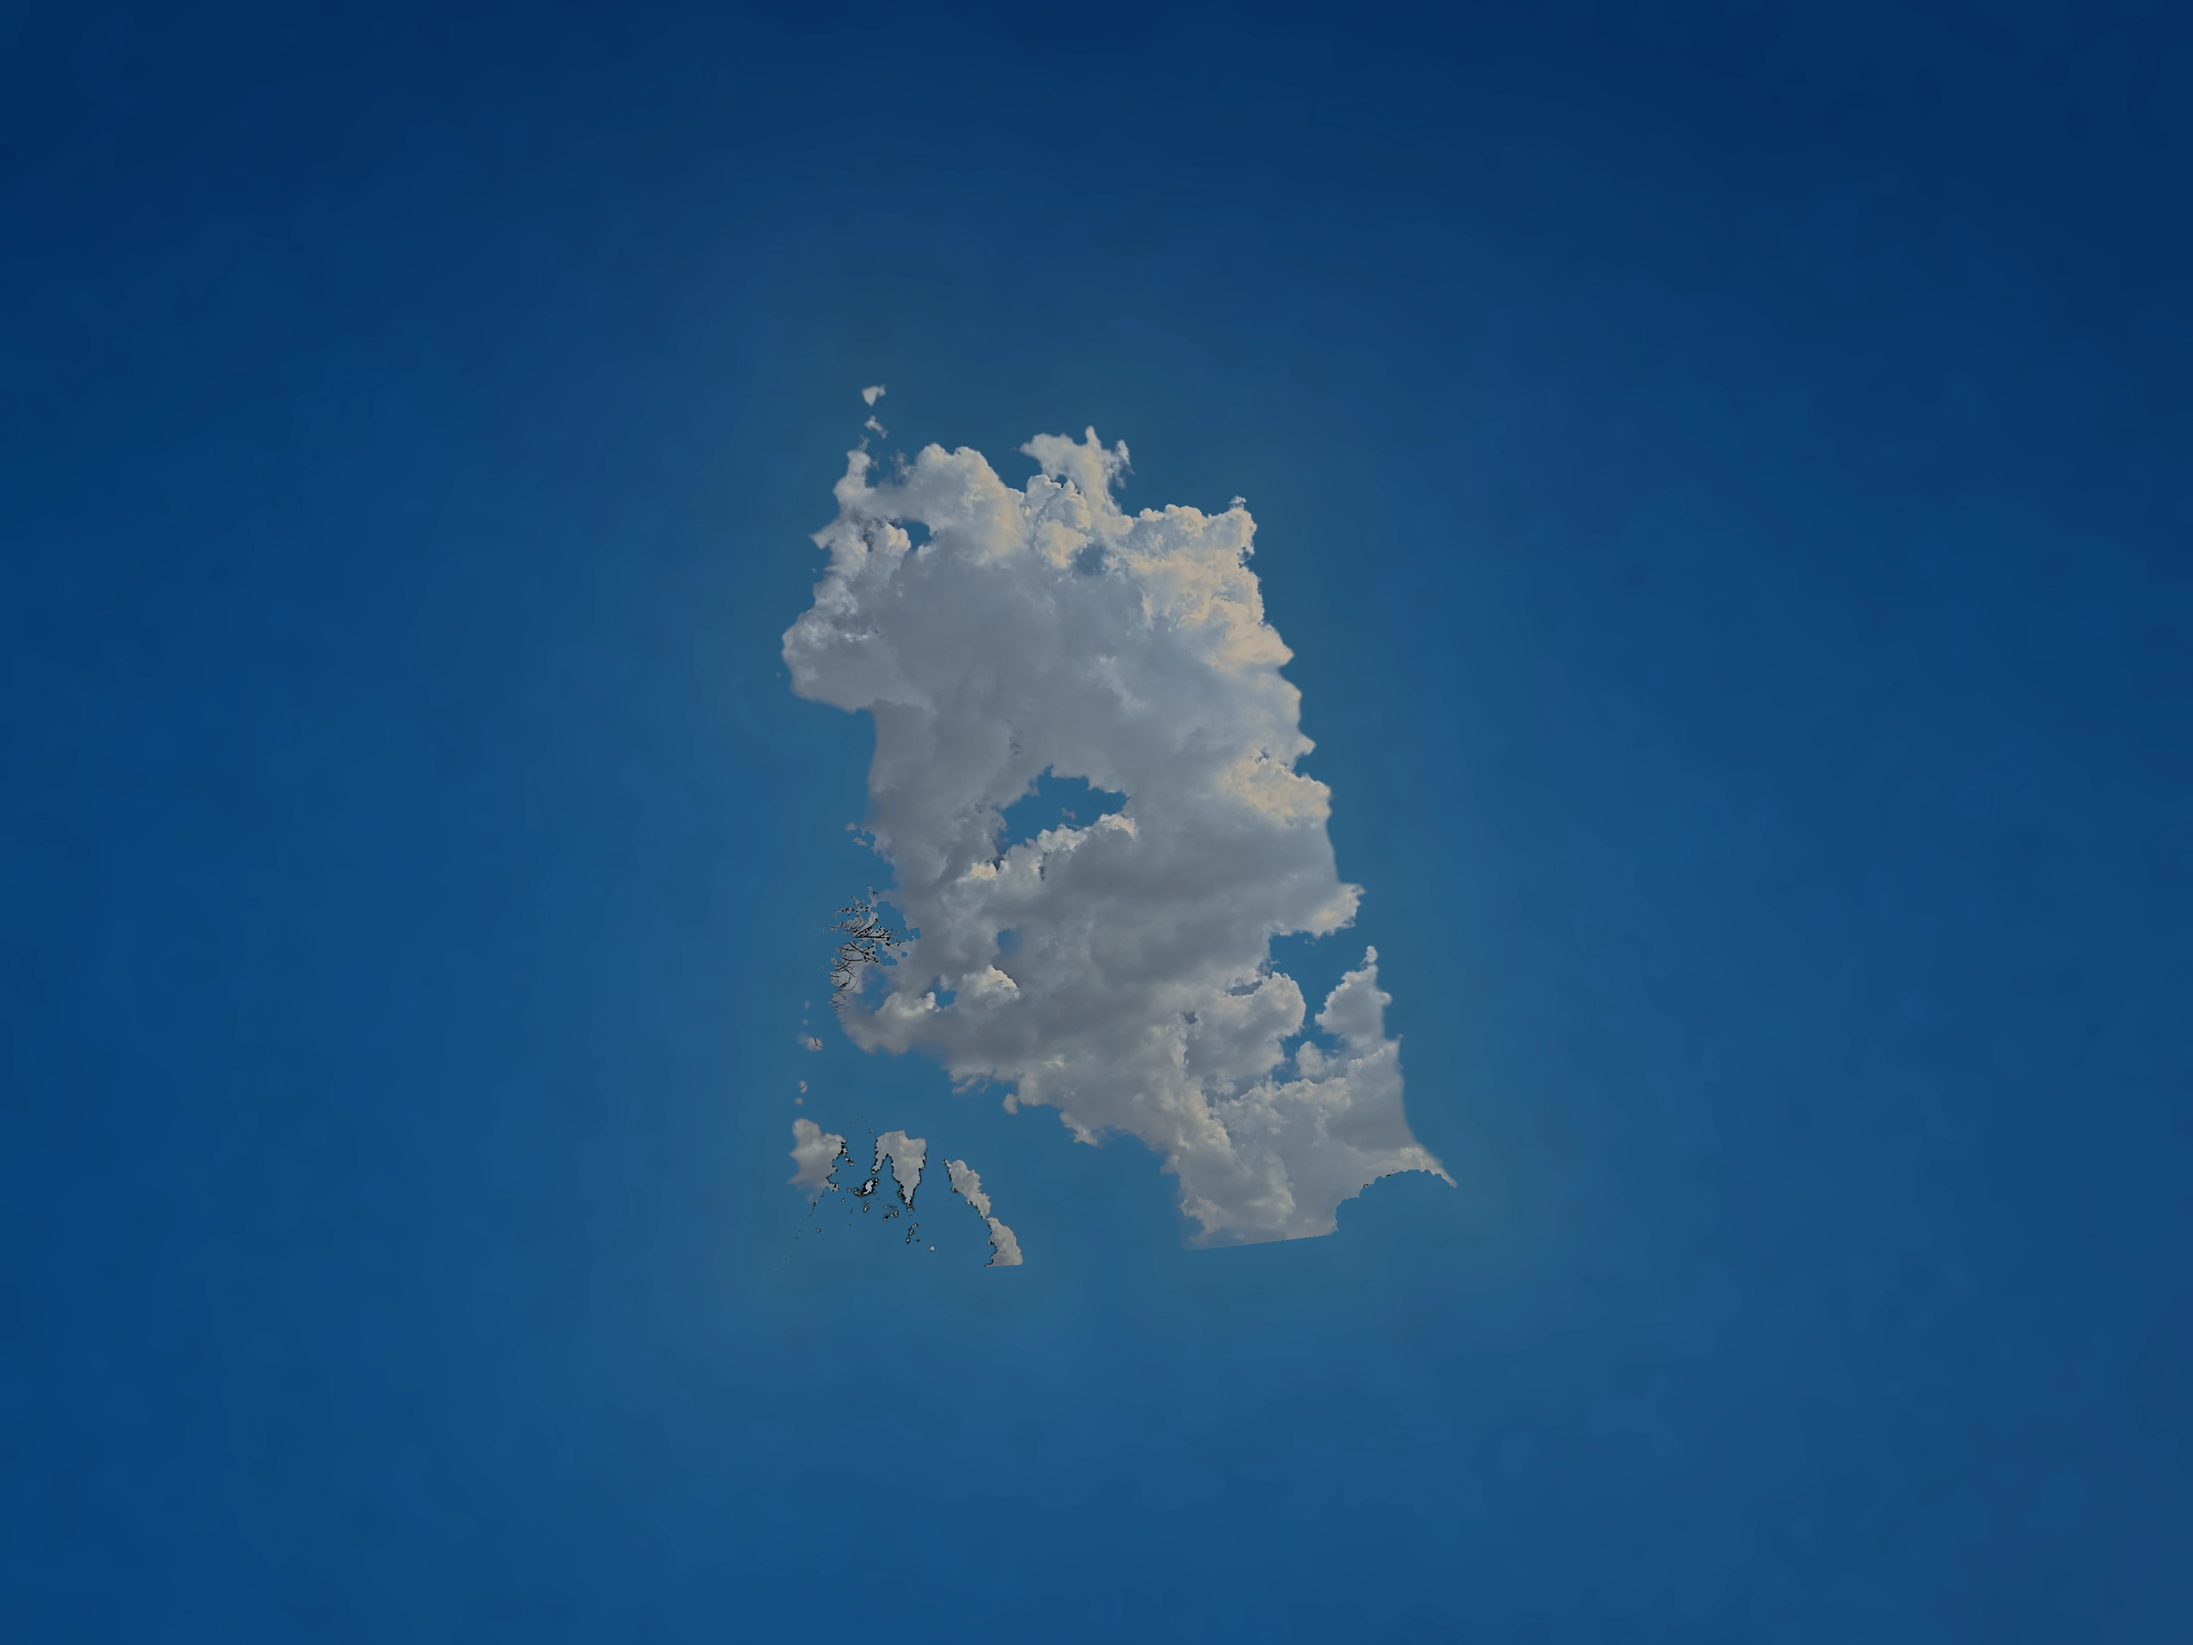
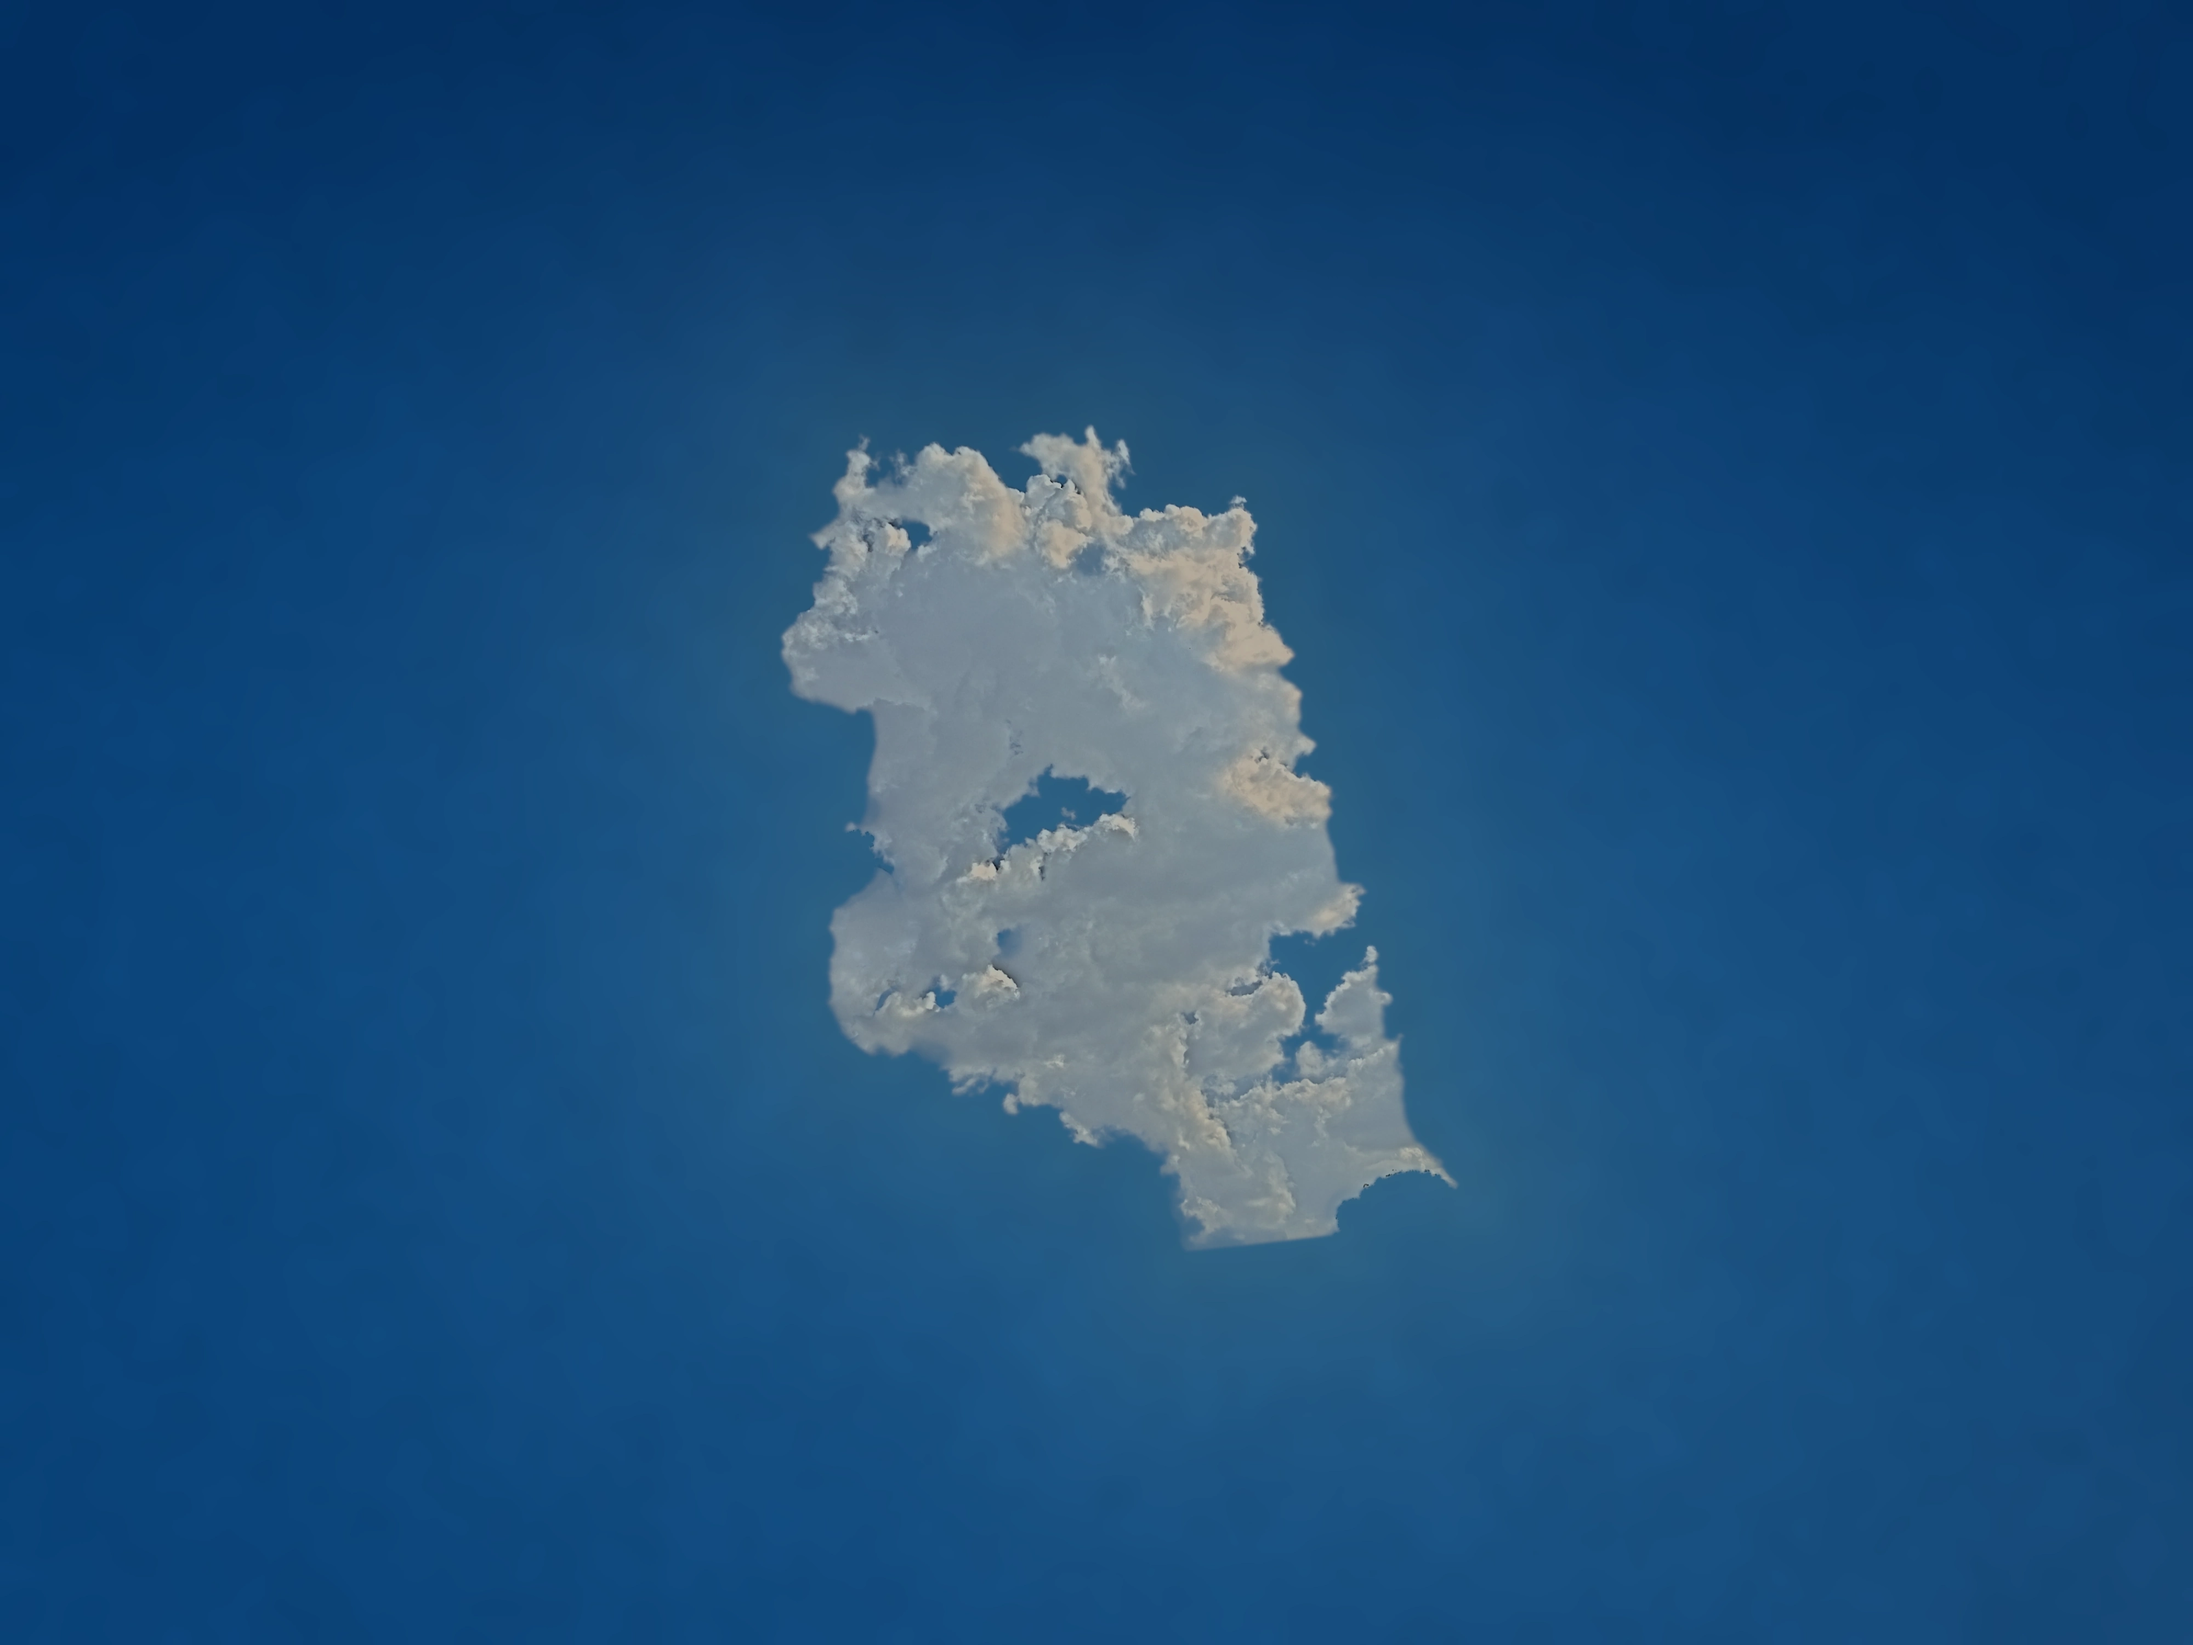
Lab: climb depth-clock round 1
Claude-Session: https://claude.ai/code/session_01RqENhngNCzDFmJWDZueXGV

Changed region(s): [[0.375, 0.465, 0.5, 0.651], [0.3438, 0.682, 0.4688, 0.775], [0.4688, 0.527, 0.5312, 0.558]]

diff --git a/src/app/lab/depth-clock/bake_clouds.py b/src/app/lab/depth-clock/bake_clouds.py
@@ -19,6 +19,10 @@
 #      clear sky, the capture's own trees and ground are refused by colour and
 #      by elevation, and the one connected mass under PX, PY is taken (the
 #      rest of the capture's sky, its altocumulus and small cumulus, is not);
+#      of what the gates leave, only the largest connected body survives (no
+#      wisp or scrap floats free of it), feathered, and the patch of its left
+#      flank crossed by the capture's own branches is closed and filled from
+#      the cloud around it;
 #   3. the clear sky around it is drawn new, from the conifers' own cobalt: a
 #      pale, less saturated band of scattered light in the air beside the
 #      cloud, deepening to a saturated cobalt away from it and toward the top
@@ -28,11 +32,13 @@
 #      the air's unevenness is drawn (AIR);
 #   4. the cloud is set to its light (its brightest sunlit crown at TOP, so on
 #      film it glows and never clips), its capture's grey cast taken off, and
-#      then lit as cloud is: its sunlit crown and flanks warm from the low sun,
-#      its bellies a little down (DARK) in skylight blue (SHADE of a paled
-#      cobalt, mixed in as light), never a grey smear; then its whole body
-#      under the crown is lifted LIFT stops, so the tower glows as one
-#      luminous mass well over the blue, not a grey cut-out with white tops;
+#      then lit as cloud is: its sunlit crown warm from the low sun and its
+#      whole body WARM of that warmth, its bellies in skylight blue (SHADE of
+#      a paled cobalt, mixed in as light), barely darkened (DARK), never a
+#      grey smear; then its whole body under the crown is lifted up to LIFT
+#      stops along a monotone curve of its broad light, so the tower glows as
+#      one luminous mass well over the blue, not a grey cut-out with white
+#      tops, and no lifted billow passes the crown above it;
 #   5. its billows crisped in light only (SHARP, EDGE), so the cloud at
 #      infinity draws as crisply as the needles in front of it, and a last
 #      soft shoulder holds the odd brightest texel under the file's ceiling.
@@ -162,6 +168,19 @@ g = np.clip((gate - 0.5 + env('BILLOW', 0.9) * bil) * 8.0 + 0.5, 0, 1)
 g = cv2.GaussianBlur(g, (0, 0), 1.5) * np.clip(gate * 4, 0, 1)
 w = np.maximum(w, solid * (1 - ground)) * g
 del Lg, bil
+# One body. The chroma matte and its gates leave islands: wisps the gate cut
+# off the crown (they hung alone above the 1) and the scraps of the lower
+# flank between the capture's own branches (low left of the column). Only
+# the largest connected mass of the matte is kept, down to its faint fringe
+# (KEEP), so the tower is one shape; what remains is feathered (FEATHER px),
+# so its rim reads as cloud thinning into air and not as a cut.
+KEEP, FEATHER = env('KEEP', 0.04), env('FEATHER', 2.5)
+n1, lab1, st1, _ = cv2.connectedComponentsWithStats((w > KEEP).astype(np.uint8), 8)
+one = (lab1 == 1 + st1[1:, cv2.CC_STAT_AREA].argmax()).astype(np.uint8)
+print('matte: %d islands dropped (%d px), one body of %d px' % (n1 - 2, st1[1:, 4].sum() - one.sum(), one.sum()))
+one = cv2.dilate(one, cv2.getStructuringElement(cv2.MORPH_ELLIPSE, (5, 5)))
+w = cv2.GaussianBlur(w * one, (0, 0), FEATHER)
+del lab1, one
 print('hero cloud: %.1f%% of the plate, bbox x %d..%d y %d..%d' % (100 * (w > 0.5).mean(), st[hero, 0], st[hero, 0] + st[hero, 2], st[hero, 1], st[hero, 1] + st[hero, 3]))
 
 # --- 3. the clear sky, drawn new
@@ -218,7 +237,7 @@ print('cloud cast', own.round(3), 'gain %.3f' % gl)
 # alone): the billows keep their own sunlit tops and shaded folds, and
 # DETAIL widens them a little, so the lift never flattens the form.
 Lc = np.maximum(C @ LUMA, 1e-6)
-GAM, DETAIL = env('GAM', 0.72), env('DETAIL', 1.4)
+GAM, DETAIL = env('GAM', 0.72), env('DETAIL', 1.6)
 lg = np.log(Lc)
 wb = cv2.GaussianBlur(w, (0, 0), env('BROAD', 30.0))
 broad = cv2.GaussianBlur(lg * w, (0, 0), env('BROAD', 30.0)) / np.maximum(wb, 1e-4)
@@ -228,27 +247,84 @@ lb2 = np.where(broad < lt, lt + GAM * (broad - lt), broad)
 C *= np.exp(lb2 + DETAIL * (lg - broad) - lg)[..., None]
 del Lc, lg, wb, broad, lb2
 # how far round toward the sun each billow faces, from its broad light
-Lbro = cv2.GaussianBlur(C @ LUMA, (0, 0), 4.0)
+Lbro = cv2.GaussianBlur(C @ LUMA, (0, 0), env('LITBLUR', 14.0))
 lo, hi = np.percentile(Lbro[cl], 3), np.percentile(Lbro[cl], 99.5)
 lit = np.clip((Lbro - lo) / max(hi - lo, 1e-4), 0, 1)
 lit = lit * lit * (3 - 2 * lit)
 lit = lit ** env('LITG', 1.4)
-SHADE, SKYL = env('SHADE', 0.25), env('SKYLIGHT', 0.5)
+SHADE, SKYL = env('SHADE', 0.35), env('SKYLIGHT', 0.35)
 SUN = np.array([1.0, 0.955, 0.875], np.float32)  # low, warm
 sk = blue ** SKYL
 sk /= sk @ LUMA
-sh = (SHADE * (1 - lit))[..., None]
-tint = ((1 - sh) + sh * sk) * (1 + lit[..., None] * (SUN - 1))
+# The bellies are lit by the blue sky, so their shade is skylight blue, never
+# a neutral grey: SHADE of it in the deepest folds, less as a billow turns
+# toward the sun. The sun's warmth is not the crown's alone: the low sun
+# reaches round the whole tower, so its body takes WARM of the crown's warmth
+# under the blue of its shade, and the crown all of it.
+sh = (SHADE * (1 - lit) ** 1.2)[..., None]
+warm = (env('WARM', 0.5) + (1 - env('WARM', 0.5)) * lit)[..., None]
+tint = ((1 - sh) + sh * sk) * (1 + warm * (SUN - 1))
 tint /= (tint @ LUMA)[..., None]
-DARK = env('DARK', 0.15)
+DARK = env('DARK', 0.03)
 tint *= (1 - DARK * (1 - lit))[..., None]
 C = C * tint
-# Above the trees the tower glows as one mass: everything under its sunlit
-# crown is lifted LIFT stops, wholly in its shaded body, tapering to nothing
+# Above the trees the tower glows as one mass: its body under the sunlit
+# crown is lifted, up to LIFT stops in its deepest shade, tapering to nothing
 # on the crown (which already stands at TOP), so its bellies come up into a
 # luminous skylight blue well over the cobalt around it instead of a dim grey
 # a little over it, and the popcorn tops no longer stand alone in white.
-C *= np.exp2(env('LIFT', 0.8) * (1 - lit))[..., None]
+# The lift follows the cloud's broad light (over LIFTBLUR px) in stops, so it
+# is a monotone curve: a lifted billow never passes the crown above it (that
+# turned the crown's edges into flat, posterised patches), and each billow's
+# own shading rides on it untouched.
+lb = np.log2(np.maximum(cv2.GaussianBlur(C @ LUMA, (0, 0), env('LIFTBLUR', 10.0)), 1e-6))
+llo, lhi = np.percentile(lb[cl], 3), np.percentile(lb[cl], 99.5)
+LIFT = min(env('LIFT', 1.3), 0.7 * (lhi - llo))
+C *= np.exp2(LIFT * np.clip((lhi - lb) / max(lhi - llo, 1e-3), 0, 1))[..., None]
+print('body lifted %.2f stops (its broad light spans %.2f)' % (LIFT, lhi - llo))
+del lb
+# The capture's own branches cross the tower's lower left flank as dark
+# twigs with blue between them. They are found as thin dark lines in the
+# cloud's light (a black-hat over TWIGR px), and their one dense cluster is
+# taken as the patch to mend: its matte is closed over (TWIGC px) and its
+# twigs and gaps are filled from the cloud around them, the broad light by
+# normalised blurs out from the clean body, the billows' fine texture from
+# the nearest clean patch of the same body, so the flank reads as cloud.
+lc = np.log(np.maximum(C @ LUMA, 1e-4))
+ell = lambda r: cv2.getStructuringElement(cv2.MORPH_ELLIPSE, (2 * r + 1, 2 * r + 1))  # noqa: E731
+twig = (cv2.morphologyEx(lc, cv2.MORPH_BLACKHAT, ell(int(env('TWIGR', 5)))) > env('TWIG', 0.2)) & (w > 0.2)
+dens = cv2.GaussianBlur(twig.astype(np.float32), (0, 0), 20)
+n2, lab2, _, _ = cv2.connectedComponentsWithStats((dens > env('TWIGD', 0.03)).astype(np.uint8), 8)
+if n2 > 1:
+    best = 1 + np.bincount(lab2.ravel(), dens.ravel(), n2)[1:].argmax()
+    zone = cv2.dilate((lab2 == best).astype(np.uint8), ell(24))
+    wfill = cv2.morphologyEx(w, cv2.MORPH_CLOSE, ell(int(env('TWIGC', 40))))
+    hole = zone.astype(bool) & (cv2.dilate(twig.astype(np.uint8), ell(4)).astype(bool) | (w < 0.95)
+                                | (lc < cv2.GaussianBlur(lc, (0, 0), 25) - 0.12))
+    valid = ((w > 0.9) & ~hole).astype(np.float32)
+    Cv = np.minimum(C, 4.0) * valid[..., None]
+    fill = np.zeros_like(C)
+    got = np.zeros((H, W), np.float32)
+    for sig in (3, 8, 20, 50):
+        den = cv2.GaussianBlur(valid, (0, 0), sig)
+        ok = np.clip(den / 0.3, 0, 1) * (1 - got)
+        fill += cv2.GaussianBlur(Cv, (0, 0), sig) / np.maximum(den, 1e-6)[..., None] * ok[..., None]
+        got += ok
+    fill /= np.maximum(got, 1e-6)[..., None]
+    Lr = np.maximum(np.minimum(C, 4.0) @ LUMA, 1e-4)
+    det = Lr / np.maximum(cv2.GaussianBlur(Lr, (0, 0), 10), 1e-4)
+    hy, hx = np.nonzero(hole)
+    off = min(((w[np.clip(hy + dy, 0, H - 1), np.clip(hx + dx, 0, W - 1)] < 0.95).mean(), np.hypot(dx, dy), dx, dy)
+              for dx in range(-440, 441, 40) for dy in range(-440, 441, 40))
+    det = cv2.warpAffine(det, np.float32([[1, 0, off[2]], [0, 1, off[3]]]), (W, H),
+                         flags=cv2.INTER_NEAREST | cv2.WARP_INVERSE_MAP, borderMode=cv2.BORDER_REFLECT)
+    hs = cv2.GaussianBlur(hole.astype(np.float32), (0, 0), 1.0)[..., None]
+    C = C * (1 - hs) + fill * np.clip(det, 0.5, 1.6)[..., None] * hs
+    zf = cv2.GaussianBlur(zone.astype(np.float32), (0, 0), 6)
+    w = w + (np.maximum(w, cv2.GaussianBlur(wfill, (0, 0), 2)) - w) * zf
+    print('twigs: %d px of the flank mended, texture from %+d,%+d' % (hole.sum(), off[2], off[3]))
+    del zone, wfill, hole, valid, Cv, fill, got, Lr, det, hs
+del lc, twig, dens, lab2
 # --- 5. crisp, in light only, inside the cloud
 SHARP, EDGE = env('SHARP', 0.5), env('EDGE', 0.35)
 lc = C @ LUMA
@@ -256,6 +332,7 @@ d = SHARP * (lc - cv2.GaussianBlur(lc, (0, 0), 1.5)) + EDGE * (lc - cv2.Gaussian
 C *= (np.maximum(lc + d, 0.02 * lc) / np.maximum(lc, 1e-6))[..., None]
 del lc, d, Lbro, Lsm
 
+C = np.minimum(C, 2.0)  # what lies under the matte's zero (the capture's sun) never leaks through its tail
 out_ = S * (1 - w[..., None]) + C * w[..., None]
 SAFE, LIMIT = env('SAFE', 0.8), env('LIMIT', 0.92)
 m = out_.max(2)
